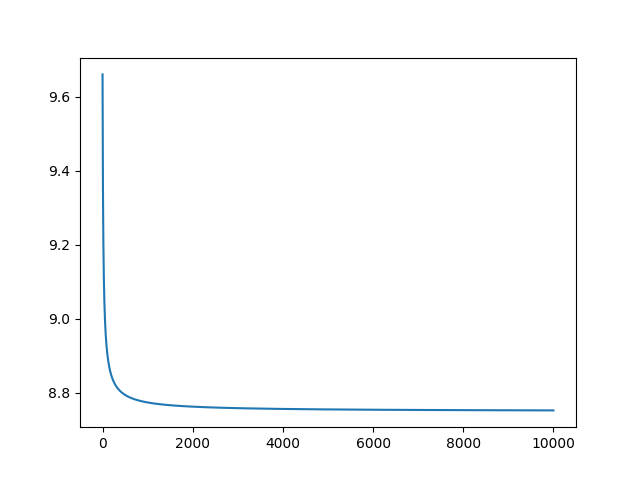
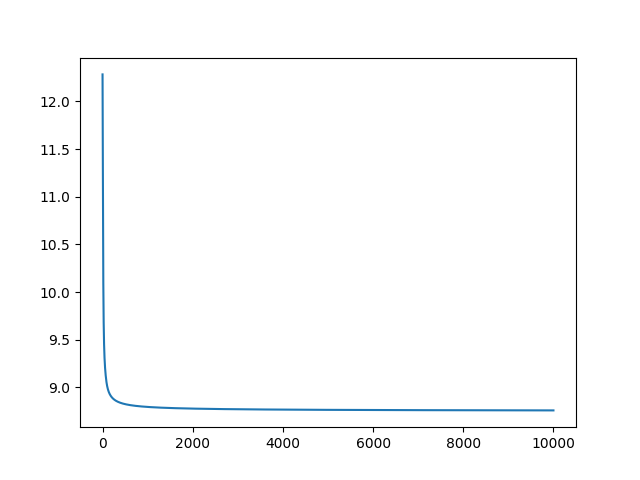
Attempted tweaks to Neural Network

diff --git a/LSTM.py b/LSTM.py
@@ -19,7 +19,7 @@ class LSTM():
         # Weights
 
         self.parameters["weights_forget"] = np.random.randn(output_size, input_size + output_size)
-        self.parameters["weights_in_gate"] = np.random.randn(output_size, input_size + output_size)
+        self.parameters["weights_in_gate"] =  np.random.randn(output_size, input_size + output_size)
         self.parameters["weights_remember"] = np.random.randn(output_size, input_size + output_size)
         self.parameters["weights_select"] = np.random.randn(output_size, input_size + output_size)
 
@@ -192,10 +192,10 @@ class LSTM():
             # Calculate derivatives
             # First, sort out dh_t
             true_t = Y[time_step]
-            dh_t = -2/(t * prediction_t.shape[0]) * (true_t - prediction_t)
 
             # Initialise dc_t if not already done
             if(time_step == t - 1):
+                dh_t = -2/(t * prediction_t.shape[0]) * (true_t - prediction_t)
                 dc_t = dh_t * self.sigmoid(pre_select_t)
 
             # Calculate remember gate gradient
@@ -223,7 +223,8 @@ class LSTM():
             dc_t = dc_t * forget_t
 
             # Update dh_t
-            #dh_t = dp_s * 
+            dh_t = np.dot(self.parameters["weights_select"].T, dp_s)
+            dh_t = dh_t[0:self.output_size, :]
 
         # Compile all gradients into one dictionary
         grads = {}
@@ -330,12 +331,12 @@ class LSTM():
             self.optimise_parameters(gradients, learning_rate)
             self.output = np.zeros((self.output_size, 1))
             self.state = np.zeros((self.output_size, 1))
-            print("Iteration {0} complete".format(i + 1))
+            #print("Iteration {0} complete".format(i + 1))
 
 
         iteration_axis = np.arange(stop=iterations)
         plt.plot(iteration_axis, costs)
-        plt.savefig("latest_cost.png")
+        plt.savefig("latest_cost_currentgrad.png")
 
 
     def predict(self, input):
@@ -399,10 +400,12 @@ class LSTM():
             self.parameters[param_key] = new_param
 
 test = LSTM(1, 1)
-X = np.array([[1],[2],[3],[4]]).T
+leng = 100
+X = np.arange(leng).reshape(1, leng) + 1
 print(X)
 Y = X + 1
 print(Y)
 
-test.train(X, Y, 2, 0.01, 10000)
+test.train(X, Y, 5, 0.1, 10000)
+test.save_parameters("test_params.txt")
 print(test.predict(X))
